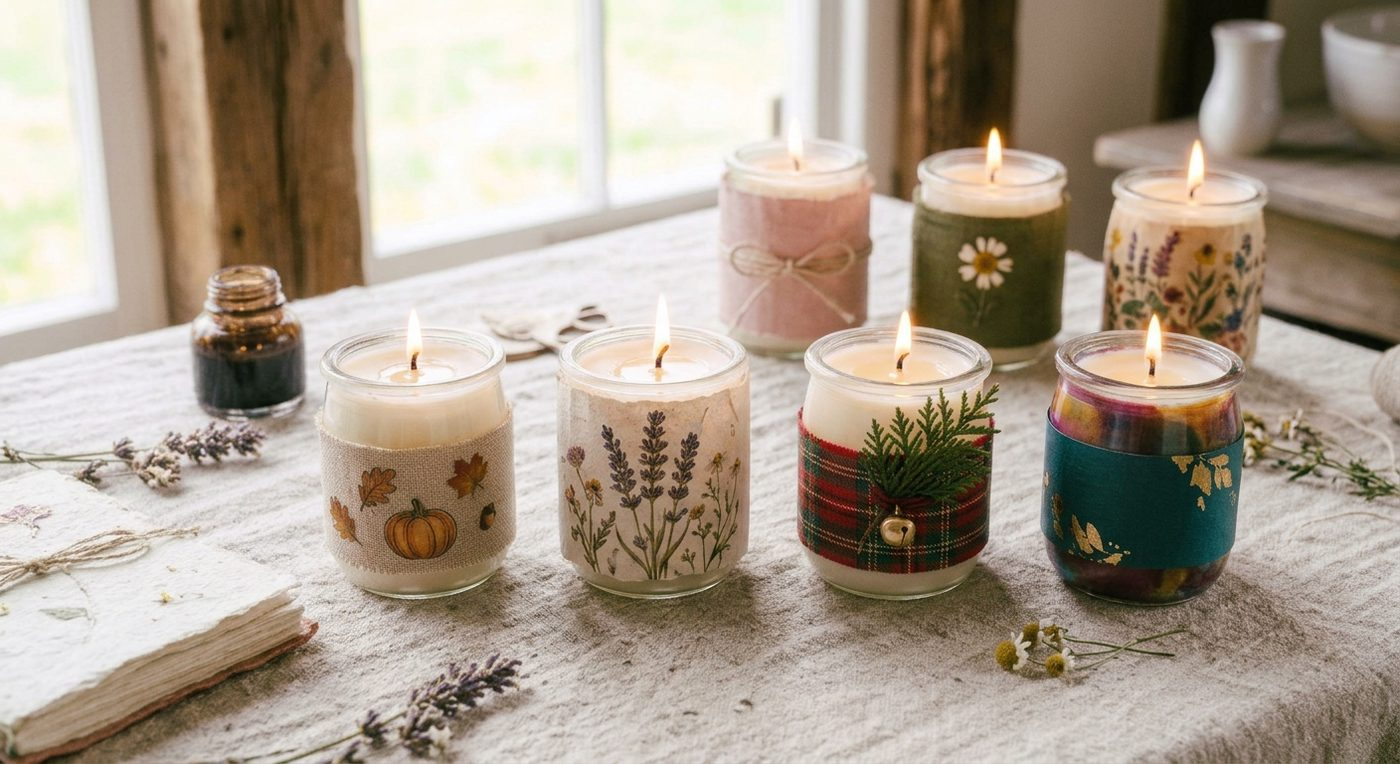
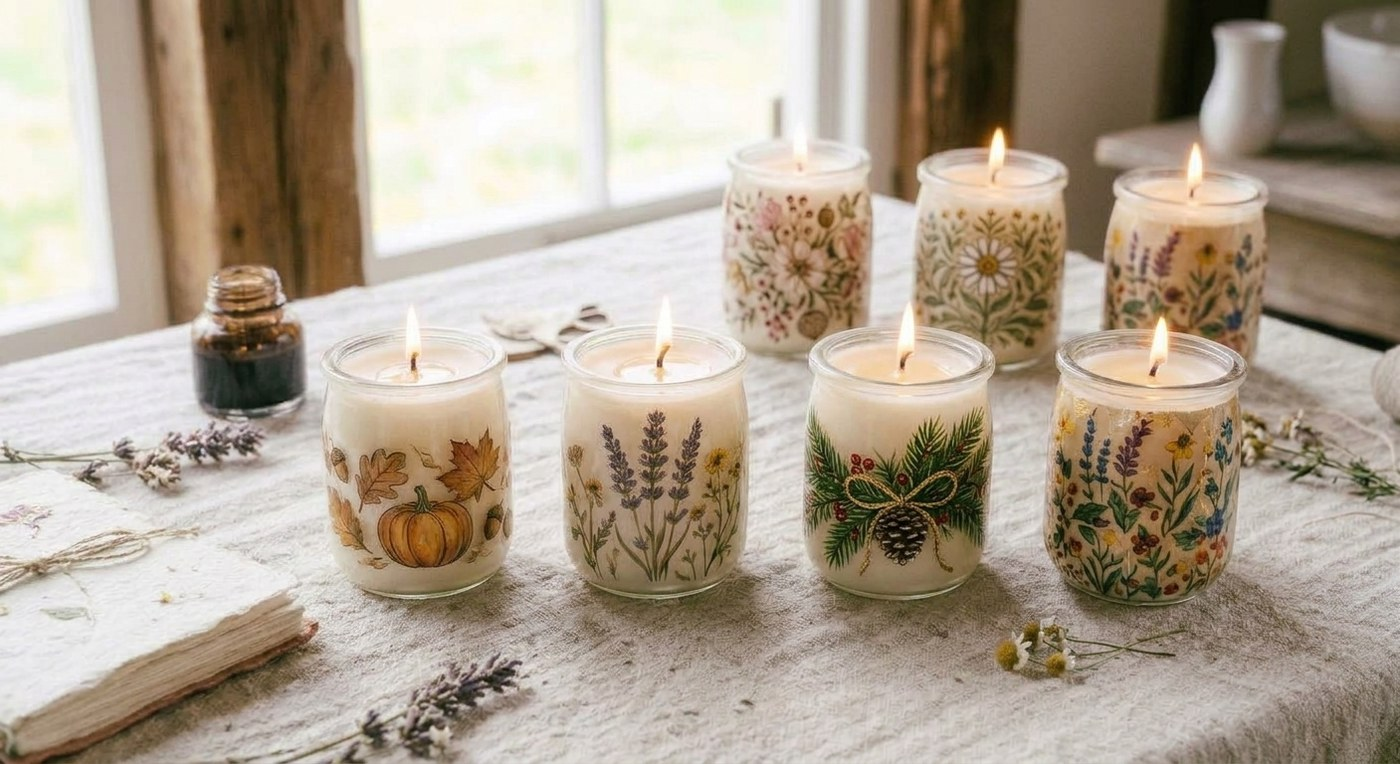
Craft Art: nuova foto delle candele
Claude-Session: https://claude.ai/code/session_014t8iBeh5Bdy61W26xVejqb

diff --git a/fr/arte.html b/fr/arte.html
@@ -105,7 +105,7 @@
         <span class="tesoro-testo"><strong>Journal Créatif & Scrapbooking</strong><em>Libre expression, écoute de ses propres désirs</em></span>
       </a>
       <a class="tesoro paper-card" href="#candele">
-        <img src="../img/arte/mini/candele.jpg" alt="Bougies dans des pots en verre décorés de tissus et de motifs botaniques" loading="lazy">
+        <img src="../img/arte/mini/candele.jpg?v=2" alt="Bougies dans des pots en verre décorés d’illustrations botaniques et saisonnières" loading="lazy">
         <span class="tesoro-testo"><strong>Bougies Poétiques & Rituels</strong><em>Des flammes de lumière pour garder les intentions et faire place au silence</em></span>
       </a>
       <a class="tesoro paper-card" href="#carte-dei-nat">
@@ -148,7 +148,7 @@
       </div>
     </article>
     <article class="arte-voce" id="candele">
-      <figure class="arte-foto paper-frame tilt-l"><img src="../img/arte/candele.jpg" alt="Bougies dans des pots en verre décorés de tissus et de motifs botaniques" loading="lazy"></figure>
+      <figure class="arte-foto paper-frame tilt-l"><img src="../img/arte/candele.jpg?v=2" alt="Bougies dans des pots en verre décorés d’illustrations botaniques et saisonnières" loading="lazy"></figure>
       <div class="arte-testo">
         <h2>Bougies Poétiques & Rituels</h2>
         <p class="arte-sotto">Des flammes de lumière pour garder les intentions et faire place au silence</p>

diff --git a/arte.html b/arte.html
@@ -105,7 +105,7 @@
         <span class="tesoro-testo"><strong>Diario Creativo & Scrapbooking</strong><em>Libera espressione, ascolto dei propri desideri</em></span>
       </a>
       <a class="tesoro paper-card" href="#candele">
-        <img src="img/arte/mini/candele.jpg" alt="Candele in vasetti di vetro decorati con stoffe e motivi botanici" loading="lazy">
+        <img src="img/arte/mini/candele.jpg?v=2" alt="Candele in vasetti di vetro decorati con illustrazioni botaniche e stagionali" loading="lazy">
         <span class="tesoro-testo"><strong>Candele Poetiche & Rituali</strong><em>Fiamme di luce per custodire intenzioni e fare spazio al silenzio</em></span>
       </a>
       <a class="tesoro paper-card" href="#carte-dei-nat">
@@ -148,7 +148,7 @@
       </div>
     </article>
     <article class="arte-voce" id="candele">
-      <figure class="arte-foto paper-frame tilt-l"><img src="img/arte/candele.jpg" alt="Candele in vasetti di vetro decorati con stoffe e motivi botanici" loading="lazy"></figure>
+      <figure class="arte-foto paper-frame tilt-l"><img src="img/arte/candele.jpg?v=2" alt="Candele in vasetti di vetro decorati con illustrazioni botaniche e stagionali" loading="lazy"></figure>
       <div class="arte-testo">
         <h2>Candele Poetiche & Rituali</h2>
         <p class="arte-sotto">Fiamme di luce per custodire intenzioni e fare spazio al silenzio</p>

diff --git a/en/arte.html b/en/arte.html
@@ -105,7 +105,7 @@
         <span class="tesoro-testo"><strong>Creative Journal & Scrapbooking</strong><em>Free expression, listening to your own desires</em></span>
       </a>
       <a class="tesoro paper-card" href="#candele">
-        <img src="../img/arte/mini/candele.jpg" alt="Candles in glass jars decorated with fabric and botanical motifs" loading="lazy">
+        <img src="../img/arte/mini/candele.jpg?v=2" alt="Candles in glass jars decorated with botanical and seasonal illustrations" loading="lazy">
         <span class="tesoro-testo"><strong>Poetic Candles & Rituals</strong><em>Flames of light to hold intentions and make room for silence</em></span>
       </a>
       <a class="tesoro paper-card" href="#carte-dei-nat">
@@ -148,7 +148,7 @@
       </div>
     </article>
     <article class="arte-voce" id="candele">
-      <figure class="arte-foto paper-frame tilt-l"><img src="../img/arte/candele.jpg" alt="Candles in glass jars decorated with fabric and botanical motifs" loading="lazy"></figure>
+      <figure class="arte-foto paper-frame tilt-l"><img src="../img/arte/candele.jpg?v=2" alt="Candles in glass jars decorated with botanical and seasonal illustrations" loading="lazy"></figure>
       <div class="arte-testo">
         <h2>Poetic Candles & Rituals</h2>
         <p class="arte-sotto">Flames of light to hold intentions and make room for silence</p>
